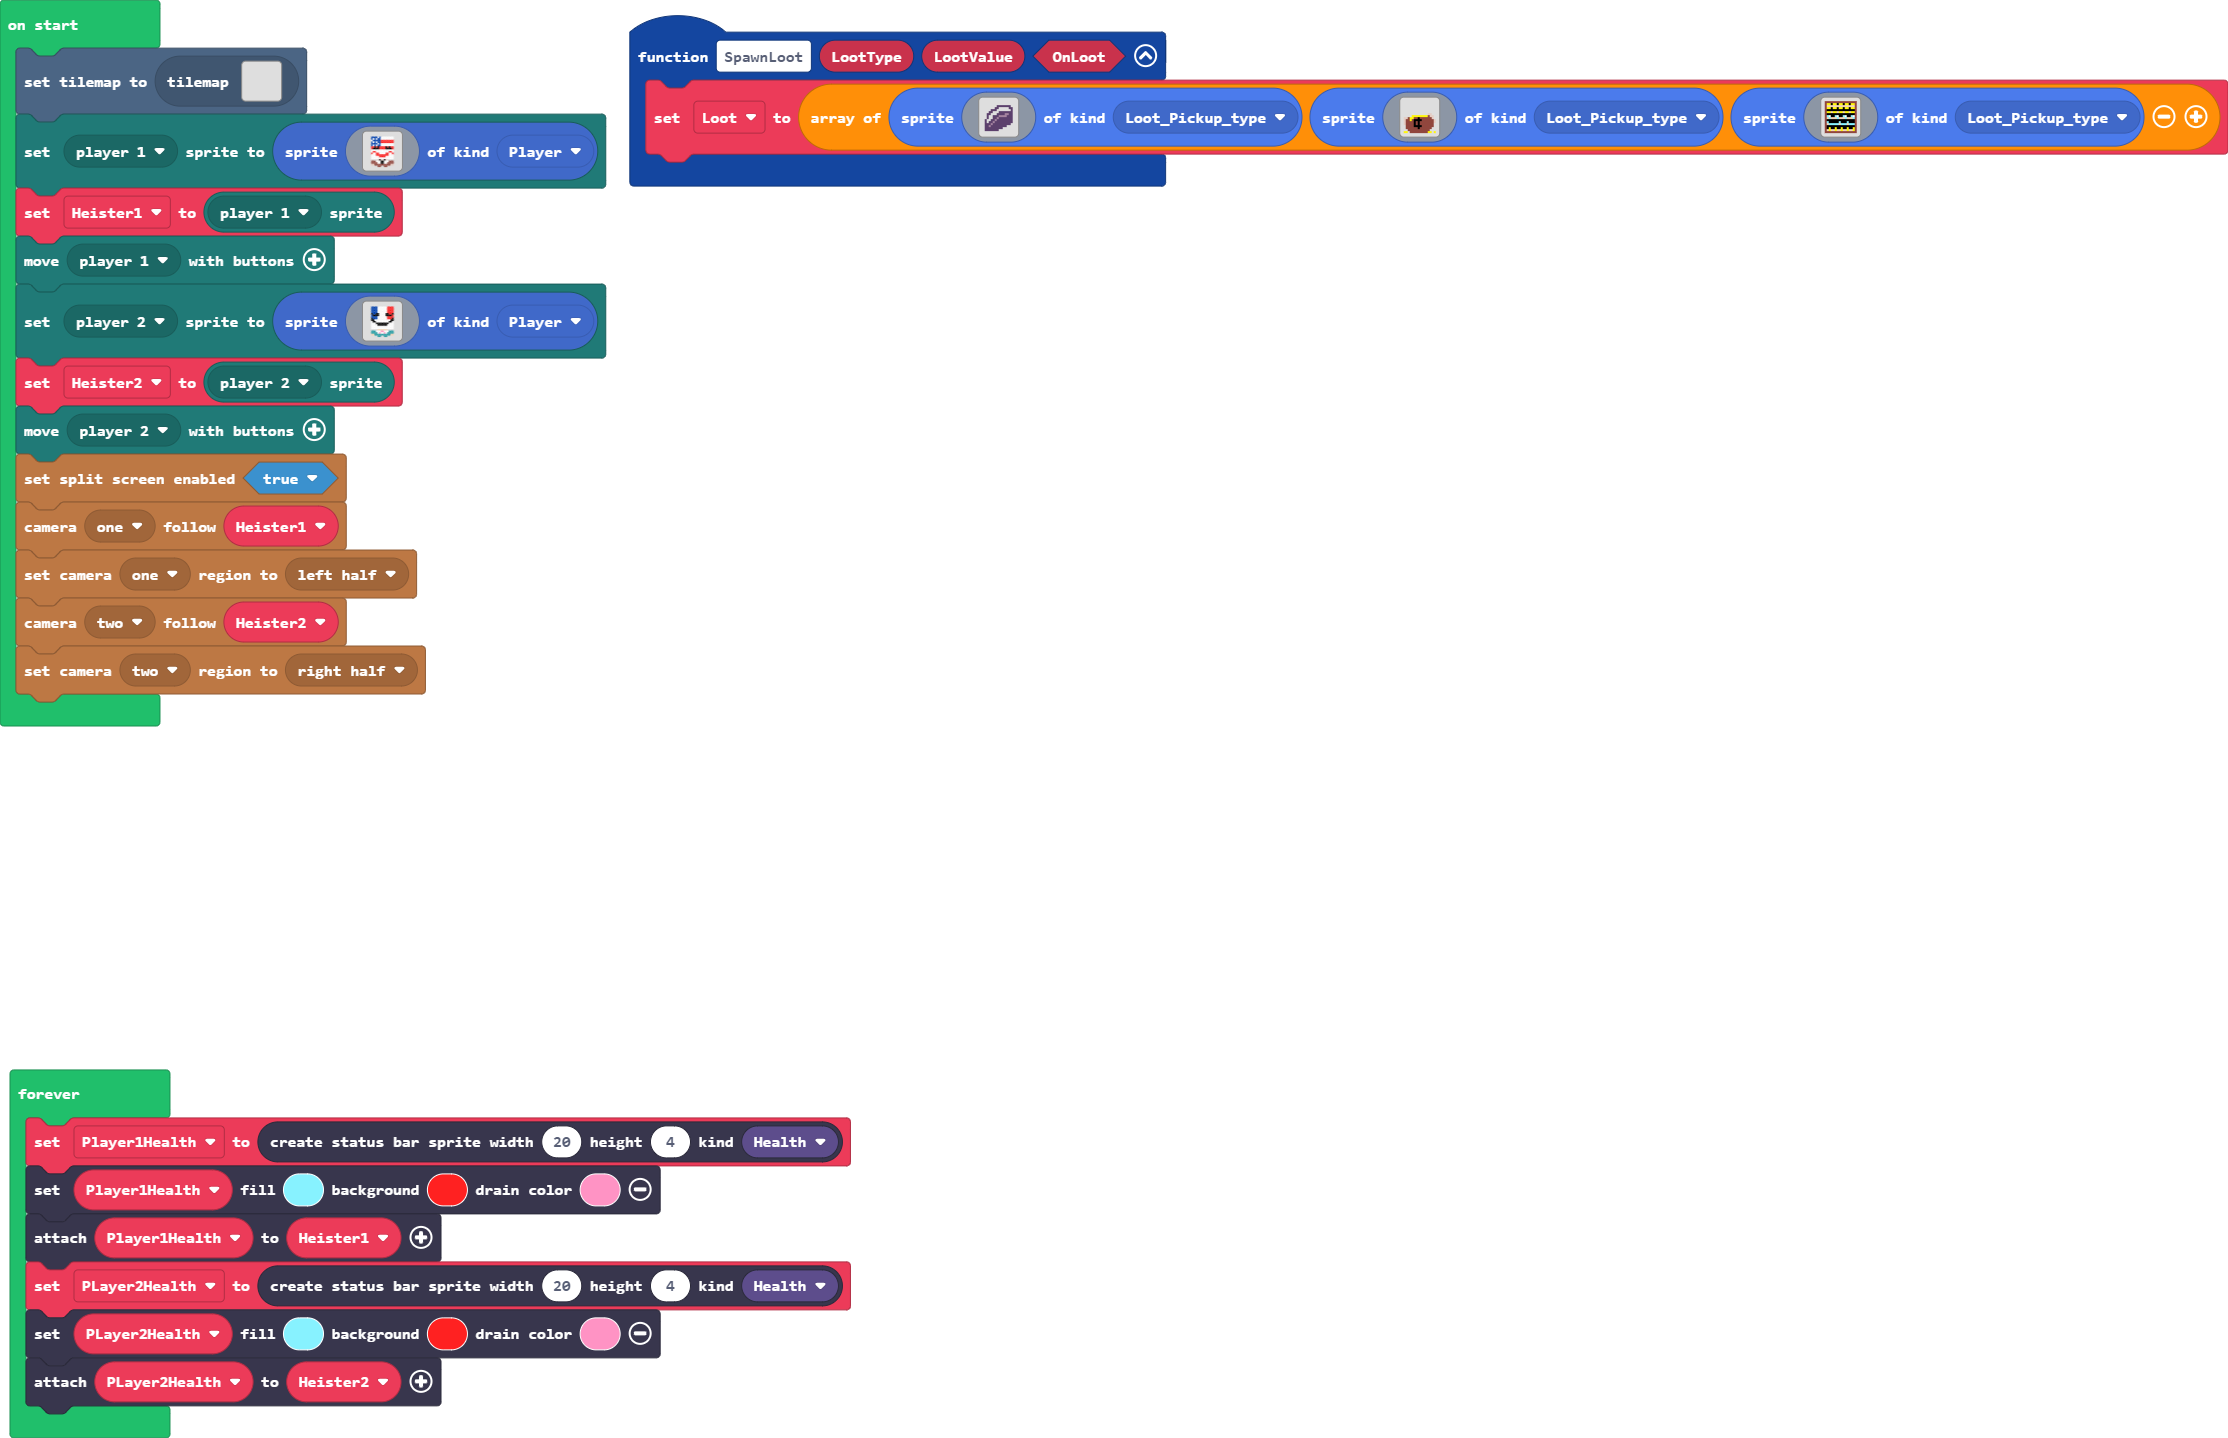
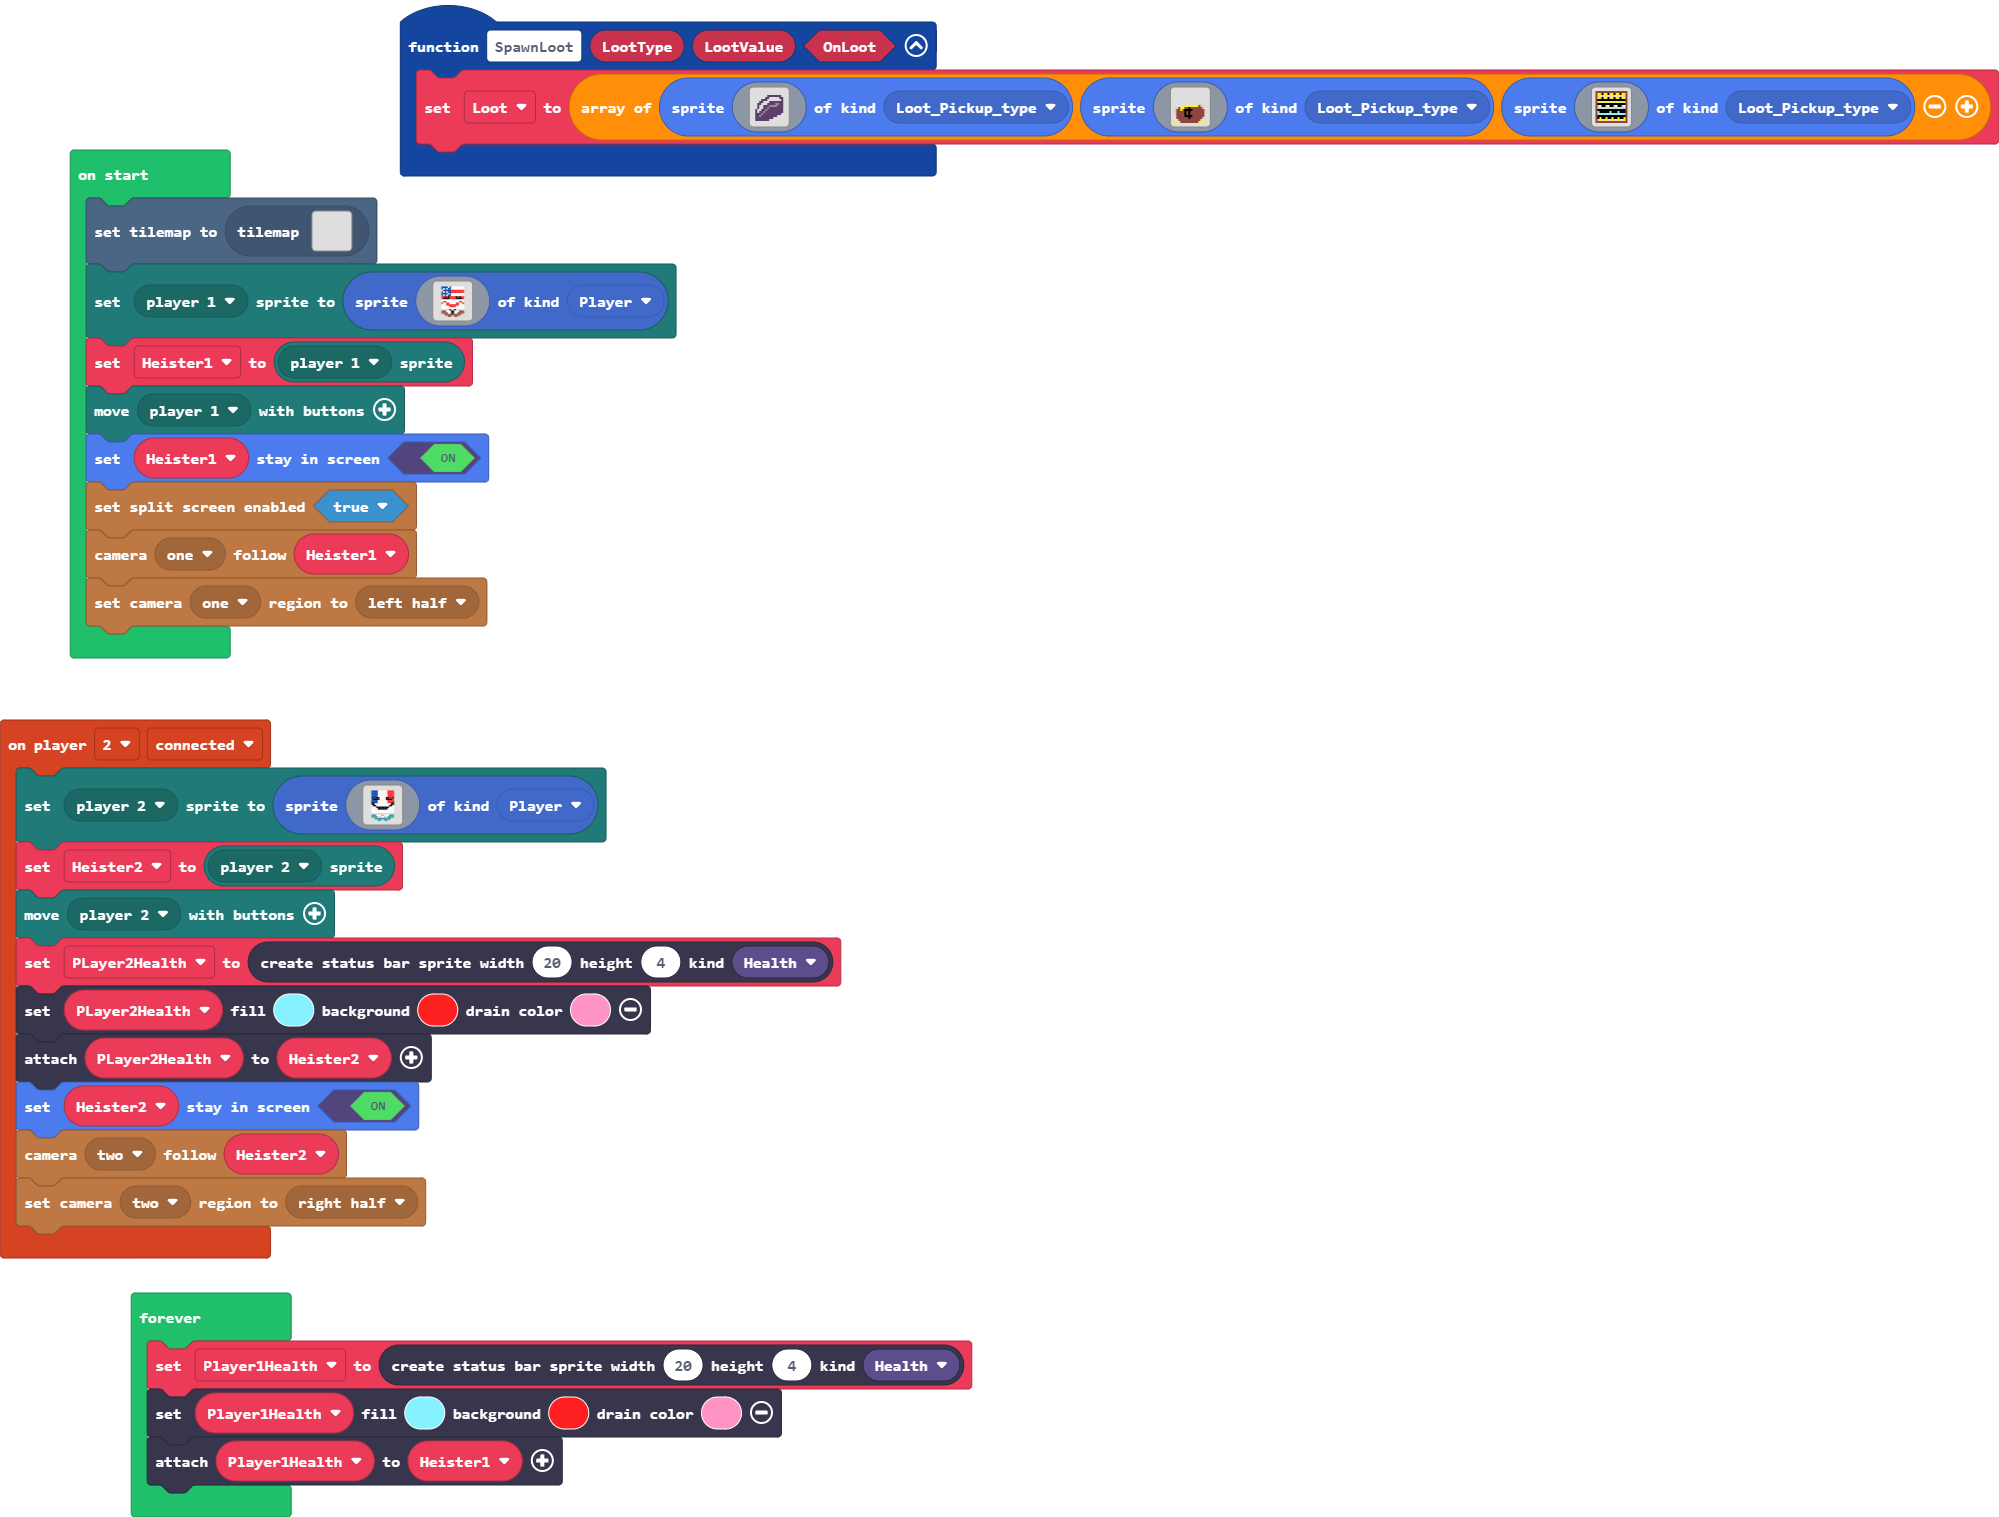
Update main.blocks, main.ts

Changed region(s): [[0.0, 0.0, 1.0, 1.0]]

diff --git a/main.ts b/main.ts
@@ -4,26 +4,31 @@ namespace SpriteKind {
 function SpawnLoot (LootType: string, LootValue: number, OnLoot: boolean) {
     Loot = [sprites.create(assets.image`Money_Bag`, SpriteKind.Loot_Pickup_type), sprites.create(assets.image`Bag_of_GOLD`, SpriteKind.Loot_Pickup_type), sprites.create(assets.image`Jewlery_Box`, SpriteKind.Loot_Pickup_type)]
 }
-let PLayer2Health: StatusBarSprite = null
+controller.player2.onEvent(ControllerEvent.Connected, function () {
+    mp.setPlayerSprite(mp.playerSelector(mp.PlayerNumber.Two), sprites.create(assets.image`Luxembourg`, SpriteKind.Player))
+    Heister2 = mp.getPlayerSprite(mp.playerSelector(mp.PlayerNumber.Two))
+    mp.moveWithButtons(mp.playerSelector(mp.PlayerNumber.Two))
+    PLayer2Health = statusbars.create(20, 4, StatusBarKind.Health)
+    PLayer2Health.setColor(9, 2, 3)
+    PLayer2Health.attachToSprite(Heister2)
+    Heister2.setStayInScreen(true)
+    splitScreen.cameraFollowSprite(splitScreen.Camera.Camera2, Heister2)
+    splitScreen.setCameraRegion(splitScreen.Camera.Camera2, splitScreen.CameraRegion.VerticalRightHalf)
+})
 let Player1Health: StatusBarSprite = null
+let PLayer2Health: StatusBarSprite = null
+let Heister2: Sprite = null
 let Loot: Sprite[] = []
 tiles.setCurrentTilemap(tilemap`level1`)
 mp.setPlayerSprite(mp.playerSelector(mp.PlayerNumber.One), sprites.create(assets.image`Austin`, SpriteKind.Player))
 let Heister1 = mp.getPlayerSprite(mp.playerSelector(mp.PlayerNumber.One))
 mp.moveWithButtons(mp.playerSelector(mp.PlayerNumber.One))
-mp.setPlayerSprite(mp.playerSelector(mp.PlayerNumber.Two), sprites.create(assets.image`Luxembourg`, SpriteKind.Player))
-let Heister2 = mp.getPlayerSprite(mp.playerSelector(mp.PlayerNumber.Two))
-mp.moveWithButtons(mp.playerSelector(mp.PlayerNumber.Two))
+Heister1.setStayInScreen(true)
 splitScreen.setSplitScreenEnabled(true)
 splitScreen.cameraFollowSprite(splitScreen.Camera.Camera1, Heister1)
 splitScreen.setCameraRegion(splitScreen.Camera.Camera1, splitScreen.CameraRegion.VerticalLeftHalf)
-splitScreen.cameraFollowSprite(splitScreen.Camera.Camera2, Heister2)
-splitScreen.setCameraRegion(splitScreen.Camera.Camera2, splitScreen.CameraRegion.VerticalRightHalf)
 forever(function () {
     Player1Health = statusbars.create(20, 4, StatusBarKind.Health)
     Player1Health.setColor(9, 2, 3)
     Player1Health.attachToSprite(Heister1)
-    PLayer2Health = statusbars.create(20, 4, StatusBarKind.Health)
-    PLayer2Health.setColor(9, 2, 3)
-    PLayer2Health.attachToSprite(Heister2)
 })
